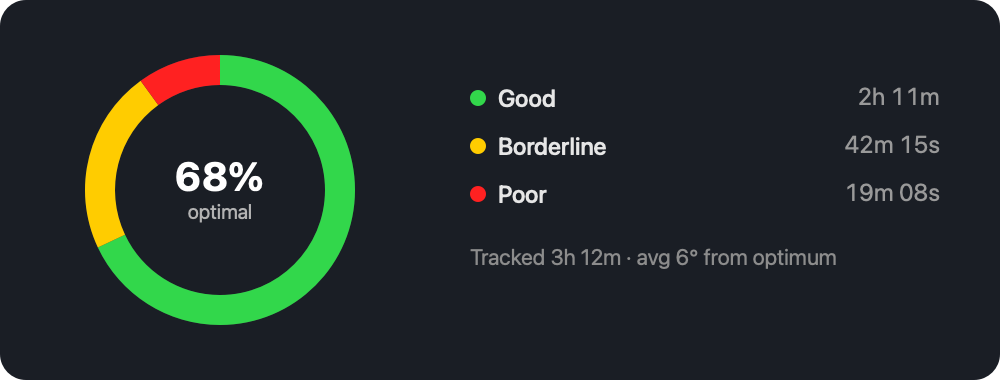
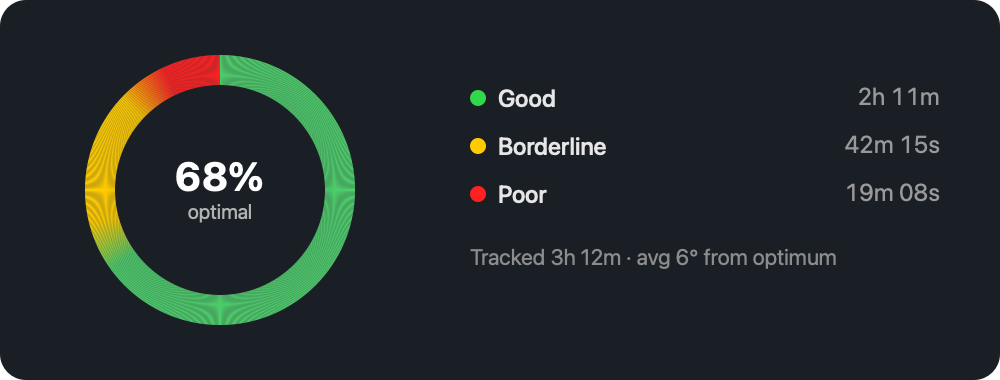
Smooth ring animation + soft color gradient
Stroke the stats ring with an angular gradient so colors blend softly at
the segment boundaries, add a draw-on animation each time the popover
opens, eased transitions, and an animated (numericText) percentage.
Update README graphic to match.

Changed region(s): [[0.062, 0.1447, 0.372, 0.8684]]

diff --git a/SitUpright/PosturePopoverView.swift b/SitUpright/PosturePopoverView.swift
@@ -287,41 +287,79 @@ struct PosturePopoverView: View {
     }
 }
 
-/// Donut chart of time spent in each posture band. The arc lengths show *how long*
-/// (good/borderline/poor), and the center shows the share of time at the optimum.
+/// Donut chart of time spent in each posture band. The arc proportions show *how long*
+/// (good/borderline/poor) via a soft green→yellow→red gradient, and the center shows the
+/// share of time at the optimum. It draws on smoothly whenever the popover appears.
 private struct StatsRing: View {
+
     let snapshot: StatsSnapshot
 
-    private let lineWidth: CGFloat = 14
+    private let lineWidth: CGFloat = 15
+
+    // Segment colors (match the menu bar palette; green reads as "optimal" in a chart).
+    private let green  = Color(red: 0.30, green: 0.80, blue: 0.42)
+    private let yellow = Color(red: 1.00, green: 0.80, blue: 0.00)
+    private let red    = Color(red: 1.00, green: 0.13, blue: 0.13)
+
+    @State private var progress: CGFloat = 0   // drives the draw-on animation
 
     var body: some View {
         let total = snapshot.totalSeconds
-        let g = total > 0 ? snapshot.goodSeconds / total : 0
-        let b = total > 0 ? snapshot.borderlineSeconds / total : 0
-        let p = total > 0 ? snapshot.poorSeconds / total : 0
+        let goodShare = total > 0 ? snapshot.goodSeconds / total : 0
 
         ZStack {
             Circle()
                 .stroke(Color.secondary.opacity(0.15), lineWidth: lineWidth)
 
-            arc(from: 0,       to: g,       color: .green)
-            arc(from: g,       to: g + b,   color: .yellow)
-            arc(from: g + b,   to: g + b + p, color: .red)
+            // Single ring stroked with an angular gradient → colors blend softly at the
+            // segment boundaries instead of switching hard.
+            Circle()
+                .trim(from: 0, to: progress)
+                .stroke(
+                    AngularGradient(gradient: Gradient(stops: gradientStops()), center: .center),
+                    style: StrokeStyle(lineWidth: lineWidth, lineCap: .round)
+                )
+                .rotationEffect(.degrees(-90))   // start at 12 o'clock
+                .animation(.easeInOut(duration: 0.55), value: snapshot)
 
             VStack(spacing: 1) {
-                Text(total > 0 ? "\(Int((g * 100).rounded()))%" : "—")
+                Text(total > 0 ? "\(Int((goodShare * 100).rounded()))%" : "—")
                     .font(.title3.bold().monospacedDigit())
+                    .contentTransition(.numericText())
+                    .animation(.easeInOut(duration: 0.5), value: goodShare)
                 Text("optimal")
                     .font(.caption2)
                     .foregroundStyle(.secondary)
             }
         }
+        .onAppear { withAnimation(.easeOut(duration: 0.8)) { progress = 1 } }
+        .onDisappear { progress = 0 }   // re-draw next time the popover opens
     }
 
-    private func arc(from: Double, to: Double, color: Color) -> some View {
-        Circle()
-            .trim(from: CGFloat(min(from, to)), to: CGFloat(max(from, to)))
-            .stroke(color, style: StrokeStyle(lineWidth: lineWidth, lineCap: .butt))
-            .rotationEffect(.degrees(-90))   // start at 12 o'clock
+    /// Builds gradient stops with a small blend band around each boundary. Locations are
+    /// clamped to be monotonic so tiny/empty segments never break the gradient.
+    private func gradientStops() -> [Gradient.Stop] {
+        let total = snapshot.totalSeconds
+        guard total > 0 else {
+            return [Gradient.Stop(color: .clear, location: 0),
+                    Gradient.Stop(color: .clear, location: 1)]
+        }
+        let g = snapshot.goodSeconds / total
+        let b = snapshot.borderlineSeconds / total
+        let blend = 0.03
+        let raw: [(Color, Double)] = [
+            (green,  0),
+            (green,  g - blend),
+            (yellow, g + blend),
+            (yellow, g + b - blend),
+            (red,    g + b + blend),
+            (red,    1),
+        ]
+        var last = 0.0
+        return raw.map { (color, loc) in
+            let clamped = max(last, min(1, loc))
+            last = clamped
+            return Gradient.Stop(color: color, location: clamped)
+        }
     }
 }

diff --git a/README.md b/README.md
@@ -10,7 +10,7 @@ no camera, no cloud, no analytics, no external server.
 
 **macOS 14 Sonoma or newer**
 
-### [⬇︎ Download SitUpright 1.0.5 (.dmg)](https://github.com/LeonardPertsch/situpright-macos/releases/latest/download/SitUpright-1.0.5.dmg)
+### [⬇︎ Download SitUpright 1.0.6 (.dmg)](https://github.com/LeonardPertsch/situpright-macos/releases/latest/download/SitUpright-1.0.6.dmg)
 
 </div>
 